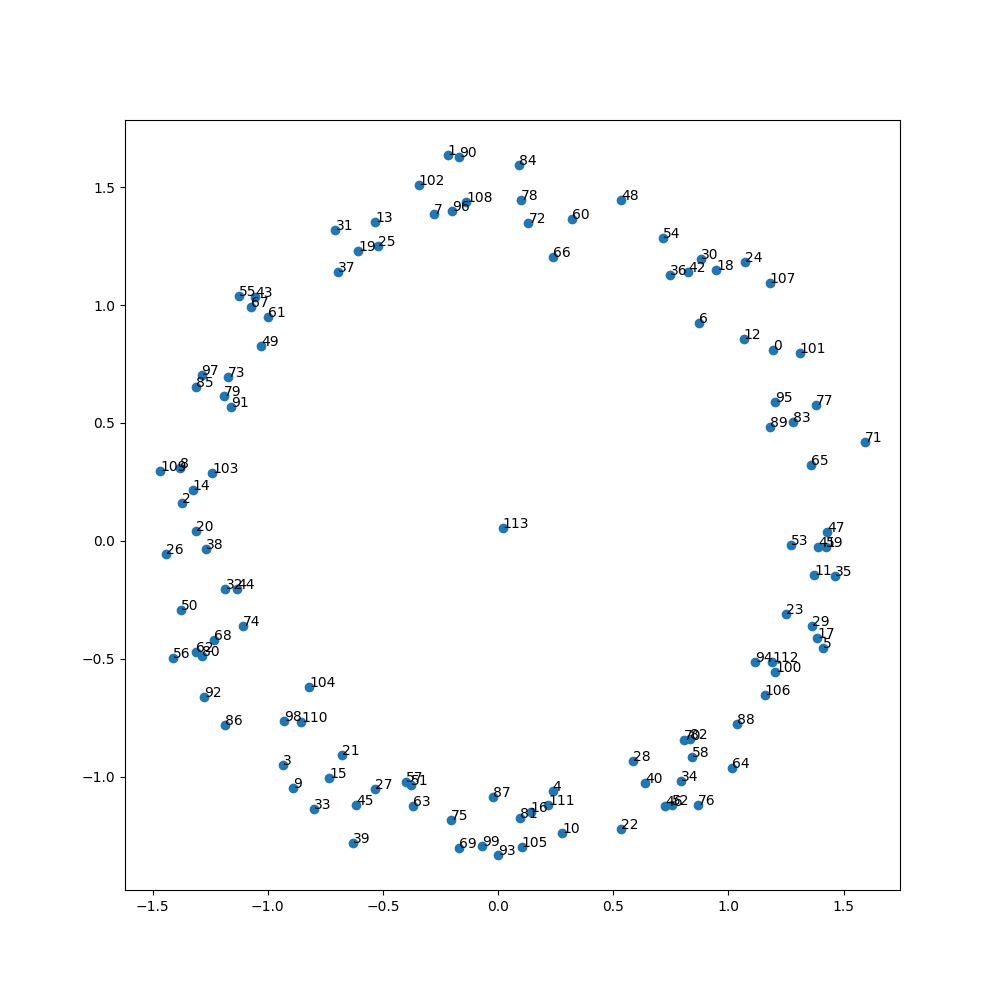
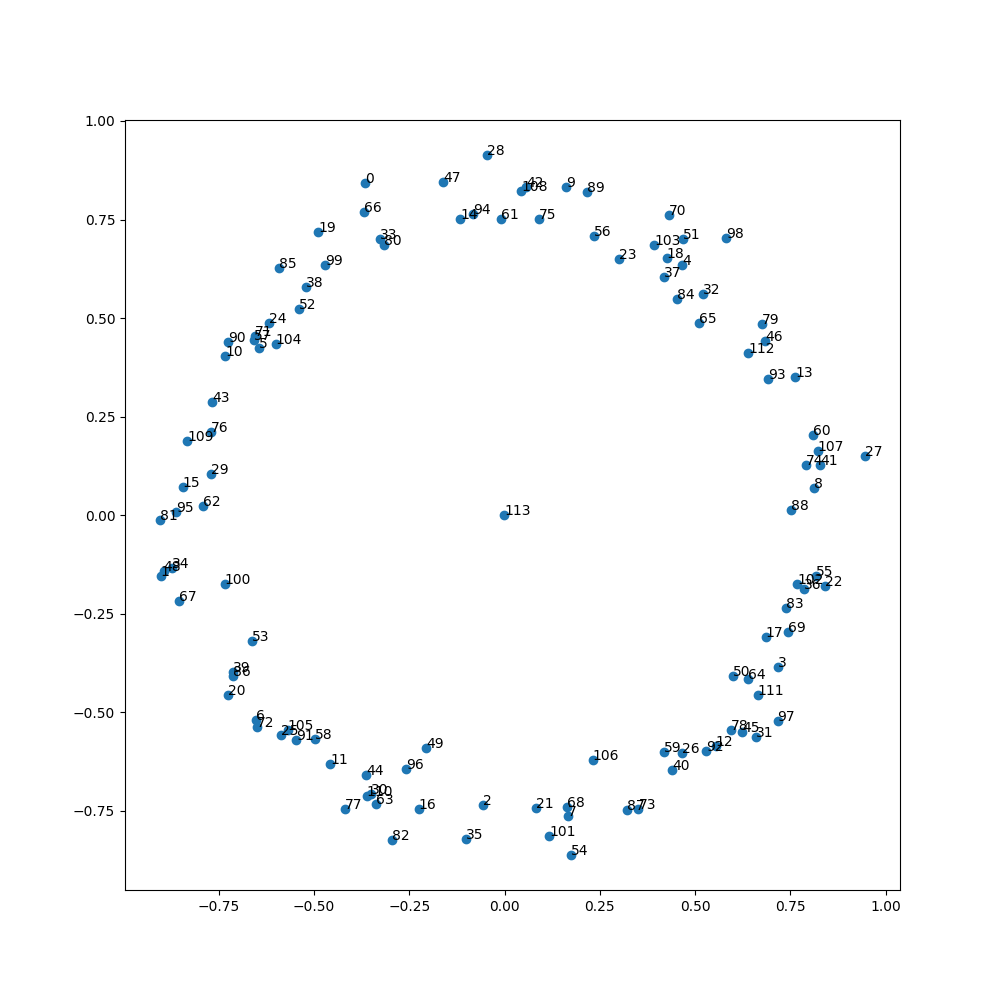
embeddings

diff --git a/mlp_modular.py b/mlp_modular.py
@@ -36,7 +36,7 @@ class MLP(nn.Module):
         x2 = self.embedding[x2]
         x = x1 + x2
         x = self.linear1(x)
-        x = self.silu(x)
+        x = x ** 2
         return self.linear2(x)
     
 
